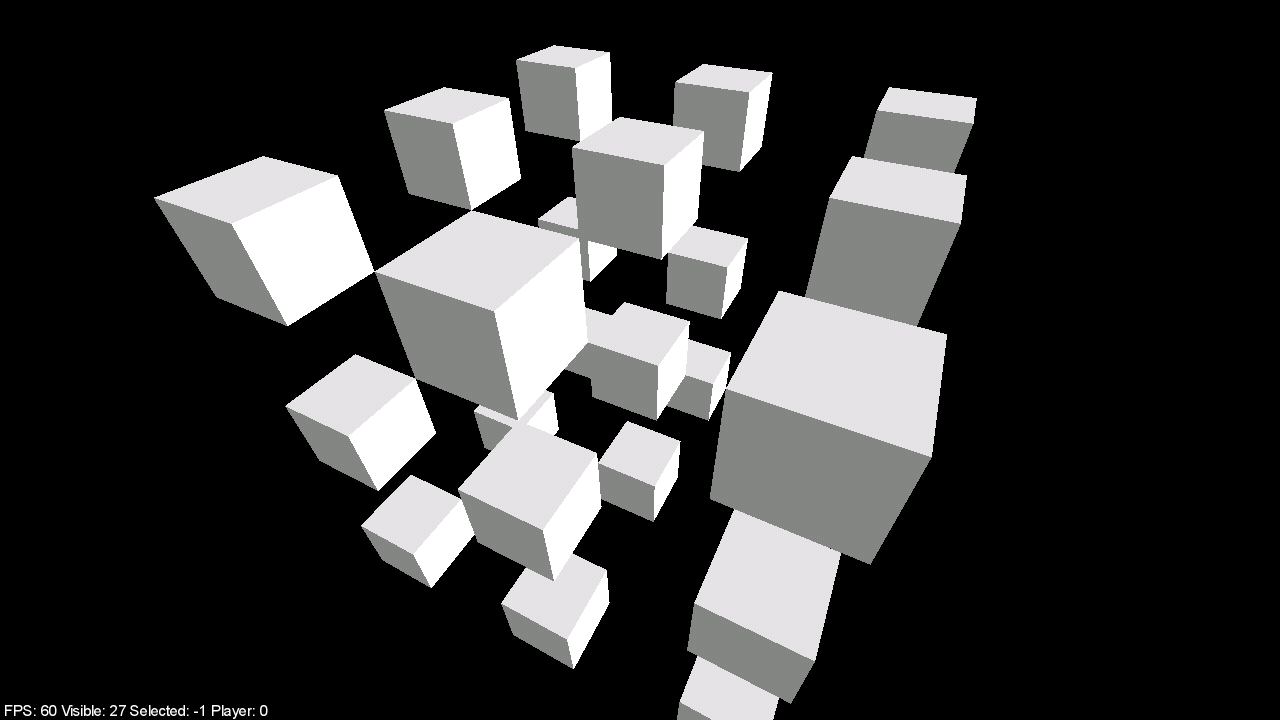
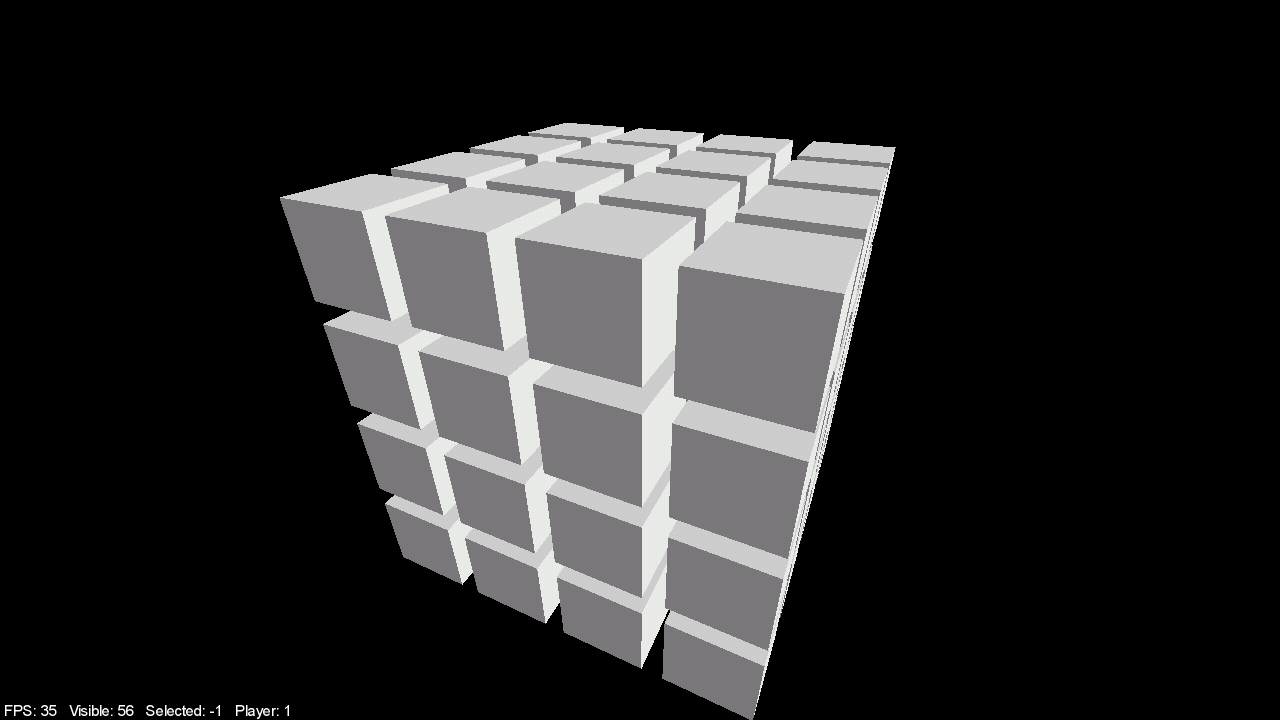
-4x4x4 (without inner cubes) -better initial camera position -scope changes

diff --git a/core/src/com/tesladodger/main/TicTacToe.java b/core/src/com/tesladodger/main/TicTacToe.java
@@ -39,6 +39,14 @@ import java.util.Vector;
 public class TicTacToe extends InputAdapter implements ApplicationListener {
 
     //Logic
+    private int visibleCount;
+    private int player = 0; // 'actual' player - 1
+
+    //Camera
+    private PerspectiveCamera cam3d;
+    private CameraInputController camController;
+
+    //Cubes
     public static class CubeObject extends ModelInstance {
         public final Vector3 center = new Vector3();
         public final Vector3 dimensions = new Vector3();
@@ -52,17 +60,9 @@ public class TicTacToe extends InputAdapter implements ApplicationListener {
             radius = dimensions.len() / 2f;
         }
     }
-    private int visibleCount;
+    private Vector<Integer> selectedVec = new Vector();
     private Vector3 position = new Vector3();
     private int selected = -1, selecting = -1;
-    private int player = 0; // 'actual' player - 1
-
-    //Camera
-    private PerspectiveCamera cam3d;
-    private CameraInputController camController;
-
-    //Cubes
-    private Vector<Integer> selectedVec = new Vector();
     private boolean cubeIsUsed;
     private Material player1Material;
     private Material player2Material;
@@ -104,8 +104,7 @@ public class TicTacToe extends InputAdapter implements ApplicationListener {
         stage.addActor(label);
         //stage.addActor(resetBtn);
         Gdx.input.setInputProcessor(stage);
-
-
+        
         //3D Stuff
         modelBatch = new ModelBatch();
 
@@ -113,7 +112,7 @@ public class TicTacToe extends InputAdapter implements ApplicationListener {
                 67,
                 Gdx.graphics.getWidth(),
                 Gdx.graphics.getHeight() );
-        cam3d.position.set(5f, 10f, 10f);
+        cam3d.position.set(10f, 14f, 22f);
         cam3d.lookAt(0,0,0);
         cam3d.near = 1f;
         cam3d.far  = 300f;
@@ -128,21 +127,35 @@ public class TicTacToe extends InputAdapter implements ApplicationListener {
 
         ModelBuilder modelBuilder = new ModelBuilder();
         player1Material = new Material();
-        player1Material.set(ColorAttribute.createDiffuse(Color.BLUE));
+        player1Material.set(ColorAttribute.createDiffuse(0f, 0f, .7f, 1f));
         player2Material = new Material();
-        player2Material.set(ColorAttribute.createDiffuse(Color.RED));
+        player2Material.set(ColorAttribute.createDiffuse(.7f, 0f, 0f, 1f));
         originalMaterial = new Material();
-        cube = modelBuilder.createBox(2f, 2f, 2f,
-                new Material(ColorAttribute.createDiffuse(Color.WHITE)),
+        cube = modelBuilder.createBox(4f, 4f, 4f,
+                new Material(ColorAttribute.createDiffuse(0.9f, 0.9f, 0.9f, 0f)),
                 Usage.Position | Usage.Normal);
-        for (float x = -5f; x <= 5f; x += 5f) {
-            for (float y = -5f; y <= 5f; y += 5f) {
-                for (float z = -5f; z <= 5f; z += 5f) {
+        float x = -7.5f;
+        while (x <= 7.5f) {
+            float y = -7.5f;
+            while (y <= 7.5f) {
+                float z = -7.5f;
+                while (z <= 7.5f) {
                     CubeObject cubeInstance = new CubeObject(cube);
                     cubeInstance.transform.setToTranslation(x,y,z);
                     cubeInstances.add(cubeInstance);
+                    if (x == -7.5f || x == 7.5f) {
+                        z += 5f;
+                    }
+                    else if (y == -7.5 || y == 7.5) {
+                        z += 5f;
+                    }
+                    else {
+                        z += 15f;
+                    }
                 }
+                y += 5f;
             }
+            x += 5f;
         }
 
     } //Create end
@@ -153,7 +166,6 @@ public class TicTacToe extends InputAdapter implements ApplicationListener {
         cam3d.update();
         camController.update();
         stage.act(Gdx.graphics.getDeltaTime());
-
 
         //Drawing
         Gdx.gl.glViewport(0, 0, Gdx.graphics.getWidth(), Gdx.graphics.getHeight());
@@ -191,11 +203,6 @@ public class TicTacToe extends InputAdapter implements ApplicationListener {
         return selecting >= 0;
     }
 
-    //@Override
-    //public boolean touchDragged(int screenX, int screenY, int pointer) {
-        //return selecting >= 0;
-    //}
-
     @Override
     public boolean touchUp(int screenX, int screenY, int pointer, int button) {
         if (selecting >= 0) {
@@ -209,6 +216,9 @@ public class TicTacToe extends InputAdapter implements ApplicationListener {
                 if (!cubeIsUsed) {
                     setSelected(selecting, player);
                     selectedVec.add(selected);
+
+                    //todo check if player wins here
+
                     player = 1 - player;
                 }
             }
@@ -218,7 +228,7 @@ public class TicTacToe extends InputAdapter implements ApplicationListener {
         return false;
     }
 
-    public void setSelected(int value, int player) {
+    private void setSelected(int value, int player) {
         selected = value;
         if (selected >= 0) {
             Material mat = cubeInstances.get(selected).materials.get(0);
@@ -234,7 +244,7 @@ public class TicTacToe extends InputAdapter implements ApplicationListener {
         }
     }
 
-    public int getObject(int screenX, int screenY) {
+    private int getObject(int screenX, int screenY) {
         Ray ray = cam3d.getPickRay(screenX, screenY);
         int result = -1;
         float distance = -1;
@@ -252,12 +262,14 @@ public class TicTacToe extends InputAdapter implements ApplicationListener {
         return result;
     }
 
+    @Override
     public void dispose() {
         cube.dispose();
         modelBatch.dispose();
         cubeInstances.clear();
     }
 
+    @Override
     public void resize(int width, int height) {
         stage.getViewport().update(width, height, true);
     }

diff --git a/README.md b/README.md
@@ -10,10 +10,10 @@ Initial state of the game:
 Two player take turns clicking on the cubes until one wins or all the cubes are selected:
 ![](https://github.com/tesladodger/3D_TicTacToe/blob/master/screenshots/Screenshot_20190317-140820.png)
 
-##To do
+## To do
 
-1. 4x4x4 instead of 3x3x3
-2. Actual game logic:
+1. Actual game logic:
   * When a player wins
   * Player score
+2. Reset button
 3. Make it look better
